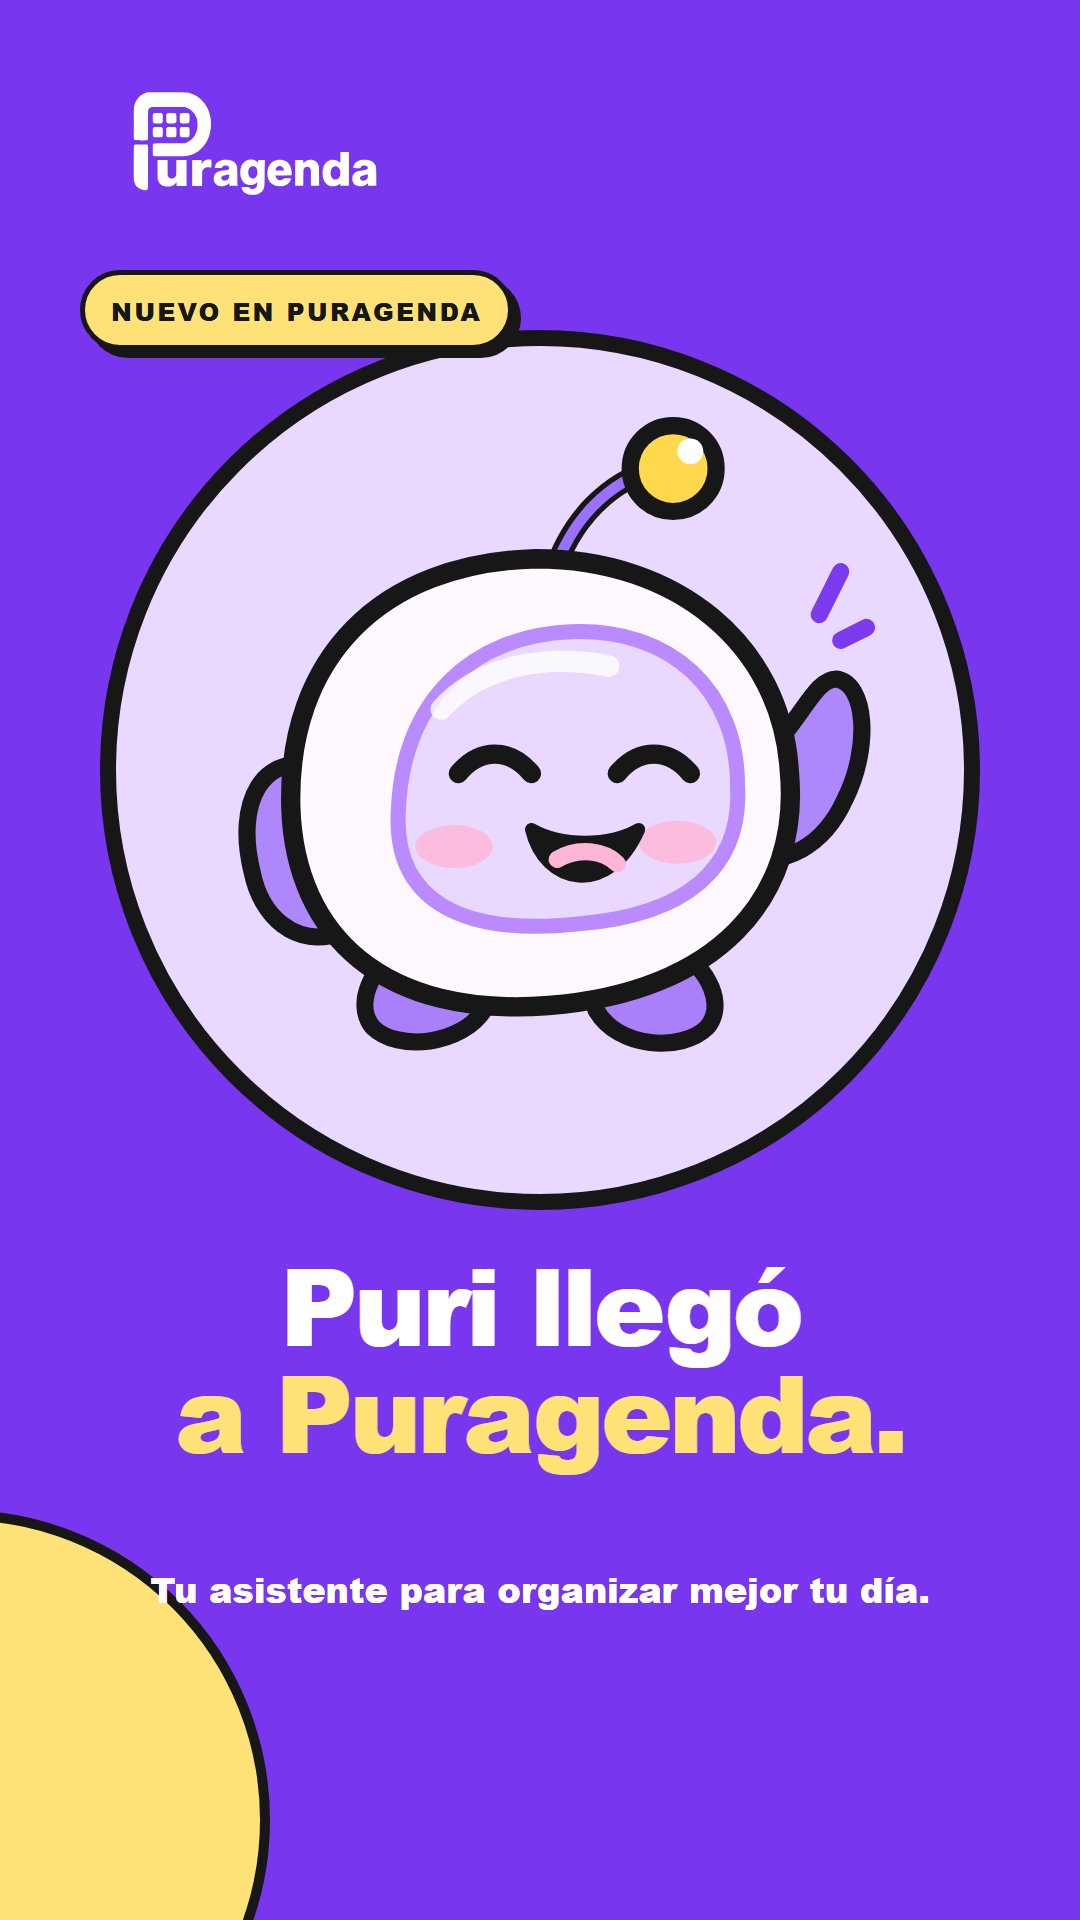
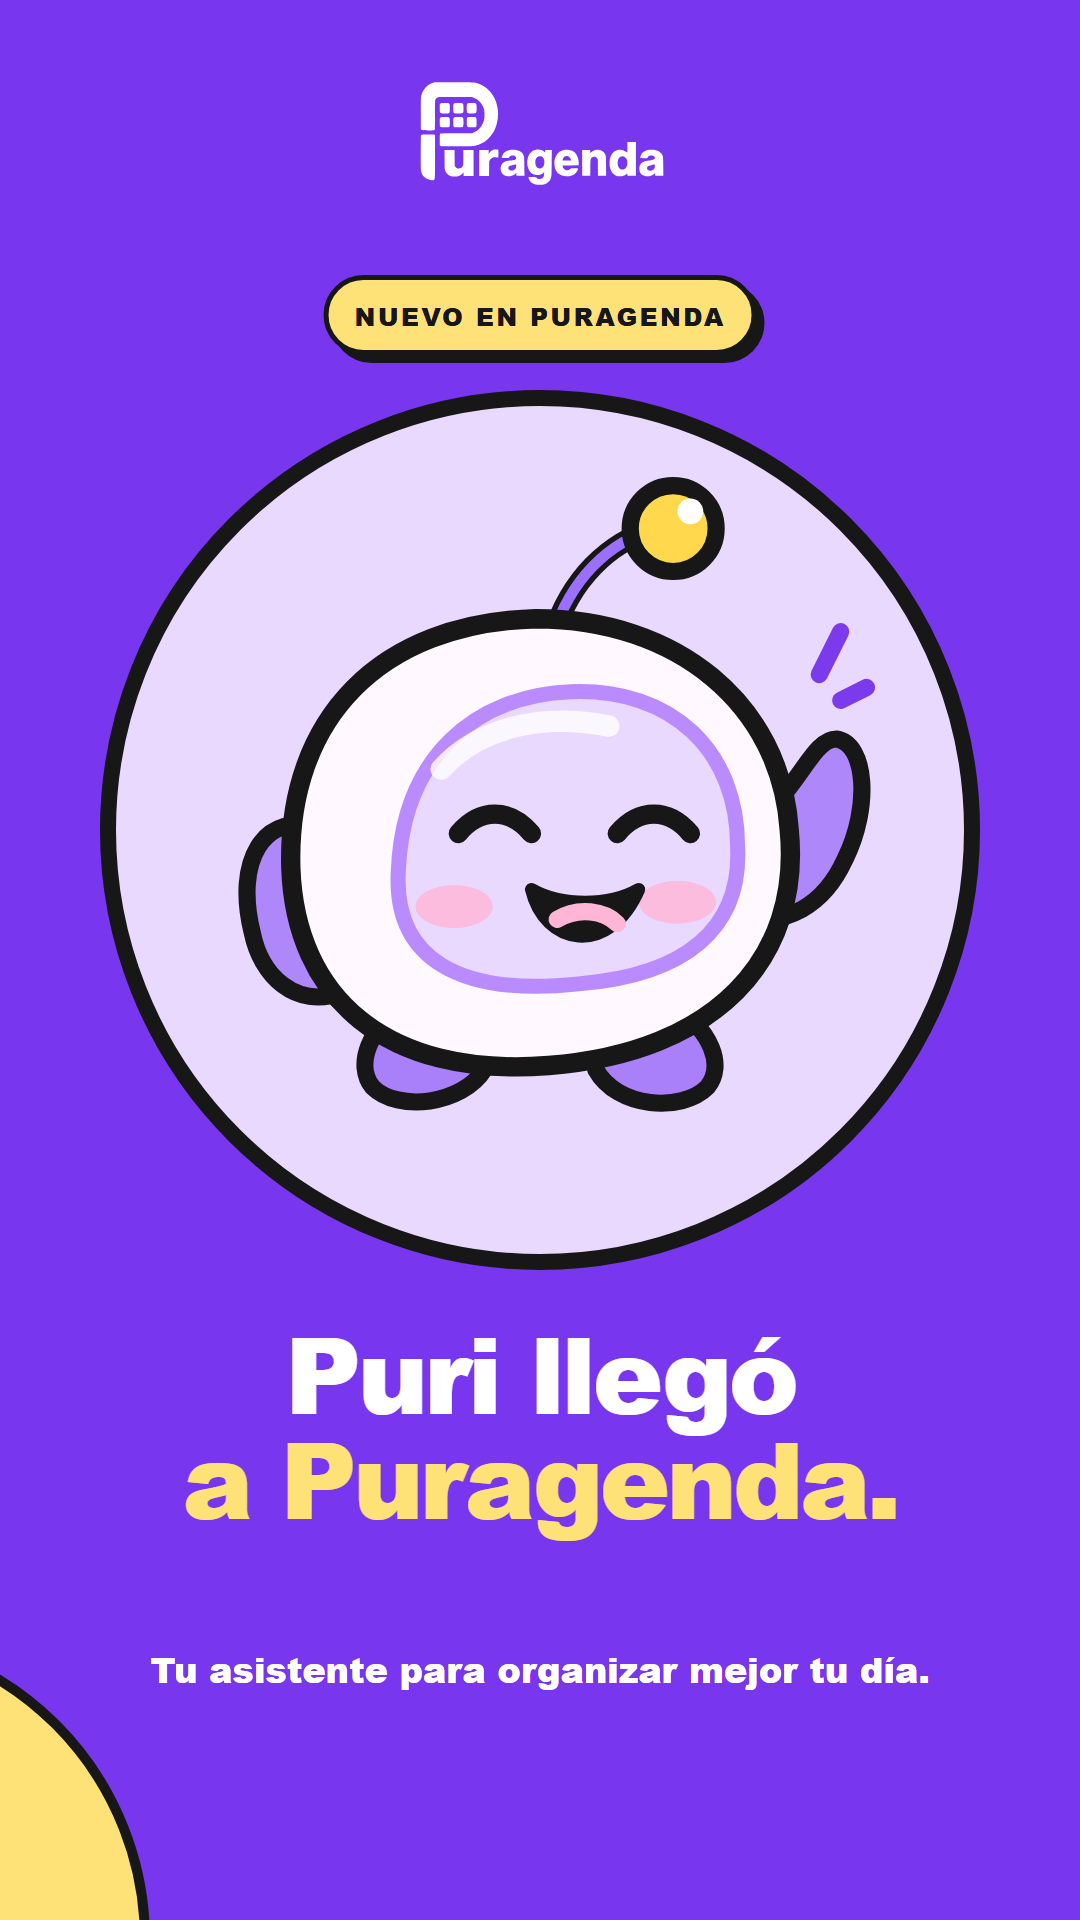
fix: center and clean Puri cover layout

Changed region(s): [[0.0, 0.0312, 0.9167, 1.0]]

diff --git a/social/puri-update-reel/remotion/src/reel.tsx b/social/puri-update-reel/remotion/src/reel.tsx
@@ -107,13 +107,13 @@ const OutroScene = () => {
 };
 
 export const PuriCover = () => <AbsoluteFill style={{ background: C.purple, fontFamily: FONT, color: C.white, overflow: "hidden" }}>
-  <div style={{ position: "absolute", width: 880, height: 880, left: 100, top: 330, borderRadius: "50%", background: C.lavender, border: `16px solid ${C.ink}` }} />
-  <div style={{ position: "absolute", width: 620, height: 620, left: -350, bottom: -210, borderRadius: "50%", background: C.yellow, border: `10px solid ${C.ink}` }} />
-  <div style={{ position: "absolute", top: 58, left: 68 }}><BrandLogo dark /></div>
-  <div style={{ position: "absolute", top: 270, left: 80, background: C.yellow, color: C.ink, border: `5px solid ${C.ink}`, borderRadius: 999, padding: "18px 26px 16px", boxShadow: `8px 8px 0 ${C.ink}`, fontSize: 25, fontWeight: 950, letterSpacing: 2.3 }}>NUEVO EN PURAGENDA</div>
-  <Puri variant="success" frame={30} style={{ position: "absolute", left: 205, top: 430, width: 670, height: 670 }} />
-  <div style={{ position: "absolute", left: 80, right: 80, top: 1250, textAlign: "center", fontSize: 108, lineHeight: .99, fontWeight: 950, letterSpacing: -4 }}>Puri llegó<br /><span style={{ color: C.yellow }}>a Puragenda.</span></div>
-  <div style={{ position: "absolute", left: 120, right: 120, top: 1570, textAlign: "center", fontSize: 35, lineHeight: 1.1, fontWeight: 800 }}>Tu asistente para organizar mejor tu día.</div>
+  <div style={{ position: "absolute", width: 880, height: 880, left: 100, top: 390, borderRadius: "50%", background: C.lavender, border: `16px solid ${C.ink}` }} />
+  <div style={{ position: "absolute", width: 620, height: 620, left: -470, bottom: -330, borderRadius: "50%", background: C.yellow, border: `10px solid ${C.ink}` }} />
+  <div style={{ position: "absolute", top: 48, left: "50%", transform: "translateX(-50%)" }}><BrandLogo dark /></div>
+  <div style={{ position: "absolute", top: 275, left: "50%", transform: "translateX(-50%)", whiteSpace: "nowrap", background: C.yellow, color: C.ink, border: `5px solid ${C.ink}`, borderRadius: 999, padding: "18px 26px 16px", boxShadow: `8px 8px 0 ${C.ink}`, fontSize: 25, fontWeight: 950, letterSpacing: 2.3 }}>NUEVO EN PURAGENDA</div>
+  <Puri variant="success" frame={30} style={{ position: "absolute", left: 205, top: 490, width: 670, height: 670 }} />
+  <div style={{ position: "absolute", left: 80, right: 80, top: 1320, textAlign: "center", fontSize: 106, lineHeight: .99, fontWeight: 950, letterSpacing: -4 }}>Puri llegó<br /><span style={{ color: C.yellow }}>a Puragenda.</span></div>
+  <div style={{ position: "absolute", left: 80, right: 80, top: 1650, textAlign: "center", fontSize: 35, lineHeight: 1.1, fontWeight: 800 }}>Tu asistente para organizar mejor tu día.</div>
 </AbsoluteFill>;
 
 export const PuriUpdateReel = () => <AbsoluteFill style={{ background: C.cream }}>
